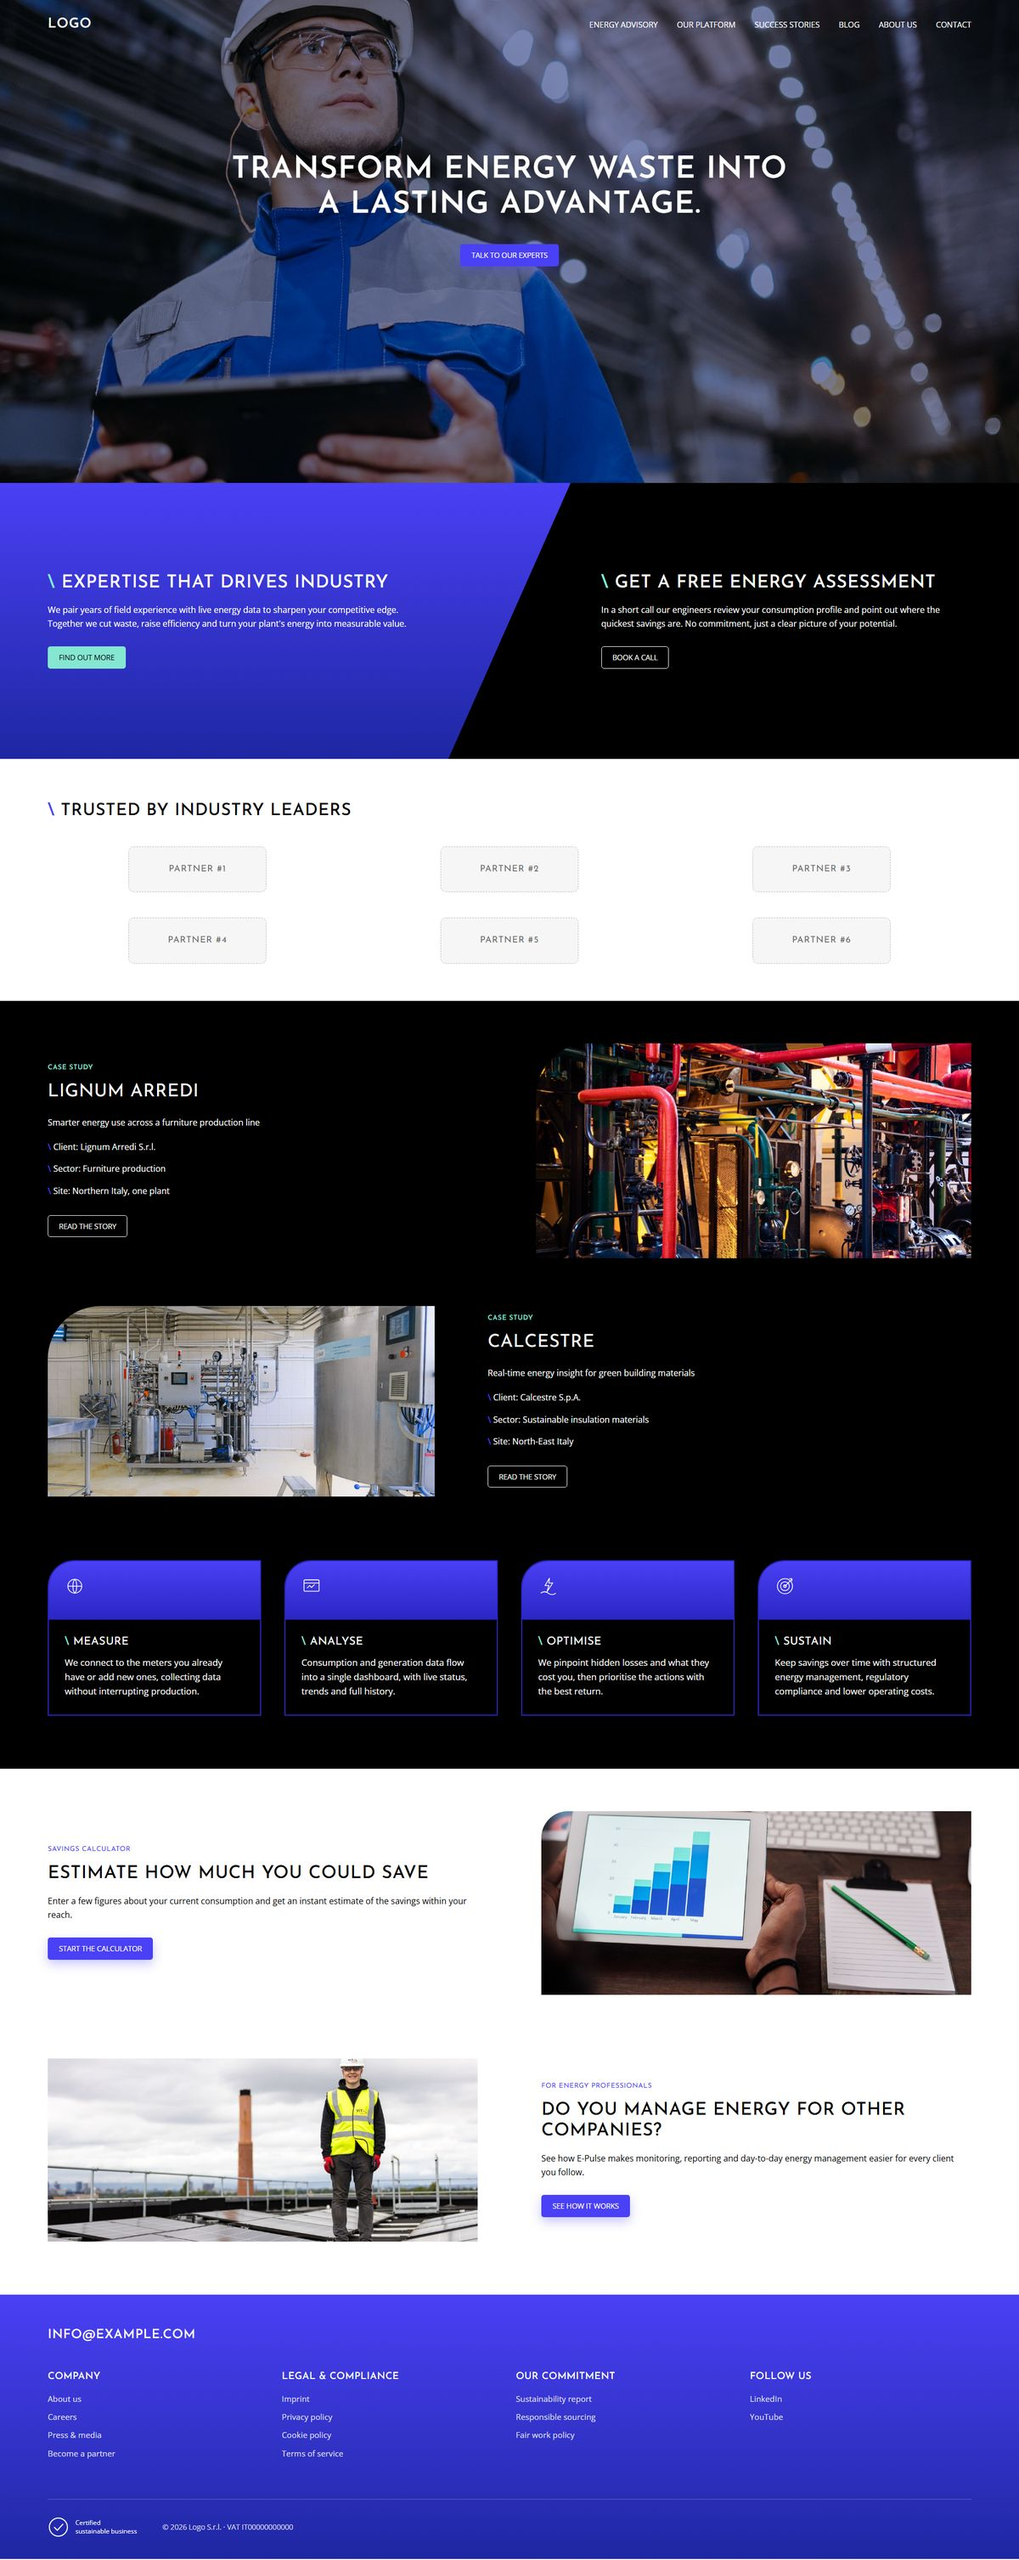
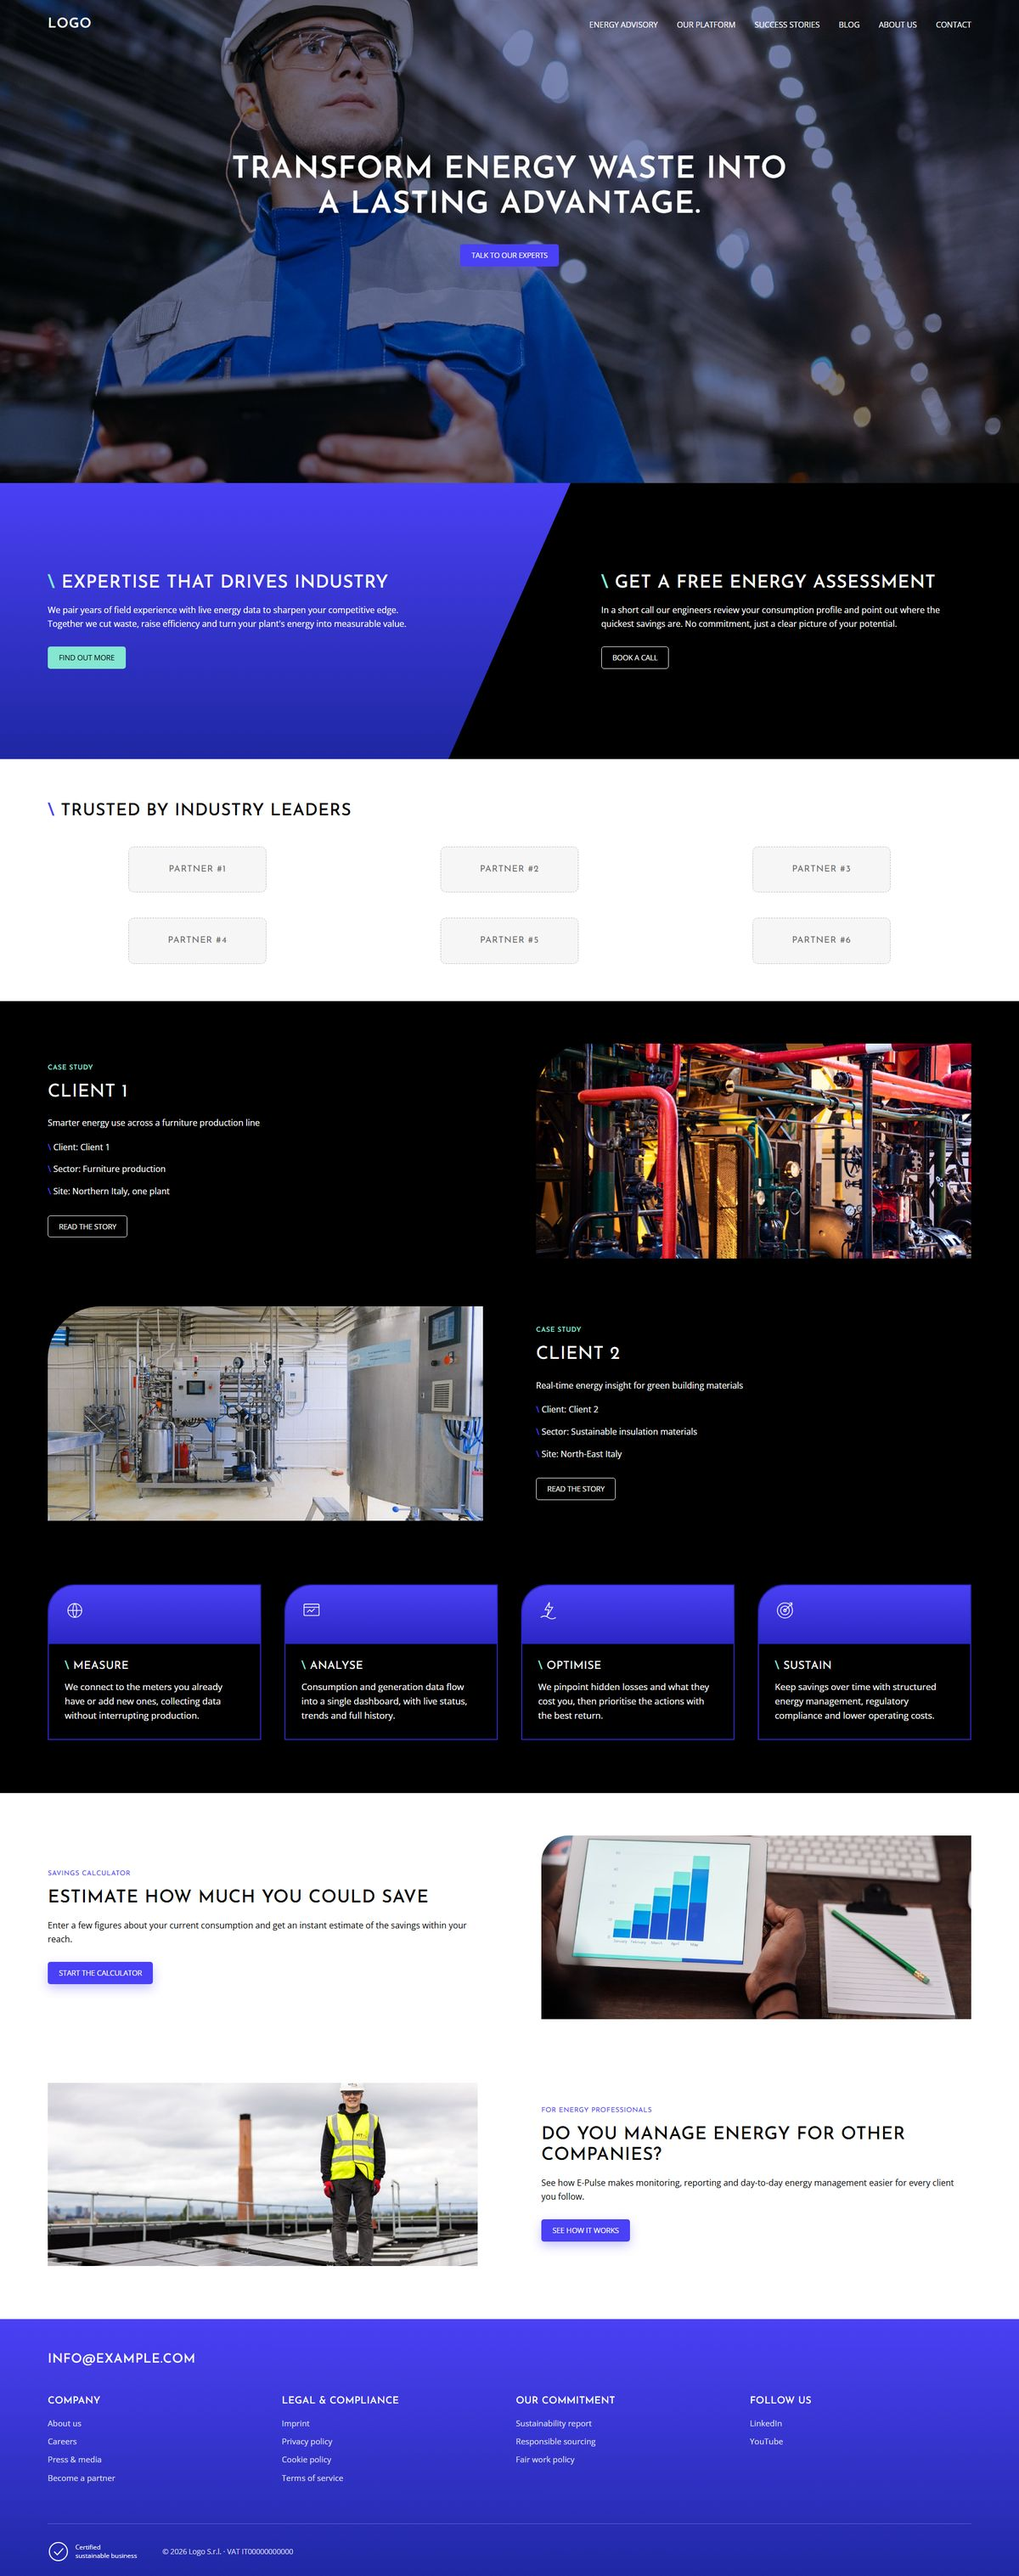
Energy demo: generic client names, equal case study image heights

diff --git a/energia/assets/css/main.css b/energia/assets/css/main.css
@@ -1,1 +1,1 @@
-*,*::before,*::after{box-sizing:border-box}html{scroll-behavior:smooth}body{margin:0;background:#fff;color:#000;font:400 16px/1.6 "Open Sans",system-ui,sans-serif;-webkit-font-smoothing:antialiased}img{display:block;max-width:100%;height:auto}a{color:inherit}h1,h2,h3{margin:0;font-family:"Josefin Sans",sans-serif;font-weight:500;text-transform:uppercase;letter-spacing:.02em;line-height:1.15}.btn{display:inline-block;padding:13px 20px;border:1px solid rgba(0,0,0,0);border-radius:5px;font:400 .85rem/1 "Open Sans",system-ui,sans-serif;text-transform:uppercase;text-decoration:none;transition:filter .2s,background .2s,color .2s}.btn:hover{filter:brightness(1.1)}.btn--violet{background:#4a40f5;color:#fff;box-shadow:0 8px 20px rgba(74,64,245,.3)}.btn--teal{background:#85e6d1;color:#000}.btn--outline{border-color:#fff;color:#fff}.btn--outline:hover{background:#fff;color:#000}.btn--ghost{border-color:#fff;background:rgba(0,0,0,0);color:#fff;transition:background .25s,color .25s,border-color .25s}.btn--ghost:hover{border-color:#85e6d1;background:#85e6d1;color:#000}.slash::before{content:"\\ ";color:#85e6d1;font-weight:600}.slash--violet::before{color:#4a40f5}.kicker{display:block;margin-bottom:20px;font:600 .8rem/1 "Josefin Sans",sans-serif;letter-spacing:.04em;text-transform:uppercase;color:#85e6d1}.kicker--violet{color:#4a40f5;font-weight:400}.header{position:absolute;inset:0 0 auto;z-index:10;color:#fff}.header__inner{display:flex;align-items:center;justify-content:space-between;padding:28px clamp(20px,4.7vw,90px)}.header__toggle{display:flex;flex-direction:column;gap:5px;padding:10px;border:0;background:none;cursor:pointer}.header__toggle span{width:24px;height:2px;background:#fff}@media(min-width: 1100px){.header__toggle{display:none}}.header__nav{display:none;position:absolute;top:90px;left:0;right:0;flex-direction:column;padding:12px clamp(20px,4.7vw,90px) 20px;background:rgba(0,0,0,.92)}.header__nav.is-open{display:flex}@media(min-width: 1100px){.header__nav{display:flex;position:static;flex-direction:row;gap:36px;padding:0;background:none}}.header__nav a{padding:8px 0;font:400 .92rem "Open Sans",system-ui,sans-serif;text-transform:uppercase;text-decoration:none}.header__nav a:hover{color:#85e6d1}.logo{font:600 1.6rem/1 "Josefin Sans",sans-serif;letter-spacing:.04em;text-transform:uppercase;text-decoration:none}.hero{display:flex;flex-direction:column;align-items:center;justify-content:center;gap:40px;min-height:600px;padding:140px 20px 80px;text-align:center;color:#fff;background:linear-gradient(rgba(10, 30, 110, 0.55), rgba(10, 30, 110, 0.55)),url("../img/hero.jpg") center 30%/cover;background-blend-mode:multiply}@media(min-width: 1100px){.hero{min-height:910px;padding-bottom:260px}}.hero h1{font-size:clamp(2rem,4.2vw,3.6rem);font-weight:600;text-shadow:0 2px 20px rgba(0,0,0,.3)}.insight{display:grid;background:#000}@media(min-width: 1100px){.insight{grid-template-columns:1fr 1fr;min-height:520px}}.insight__panel{display:flex;flex-direction:column;justify-content:center;align-items:flex-start;padding:64px clamp(20px,4.7vw,90px);background:linear-gradient(180deg, #4a40f5, #1e27a2);color:#fff}@media(min-width: 1100px){.insight__panel{grid-column:1/3;grid-row:1;width:56%;padding-right:calc(12% + 3vw);clip-path:polygon(0 0, 100% 0, 78.57% 100%, 0 100%)}}.insight__panel h2{margin-bottom:18px;font-size:clamp(1.5rem,2.2vw,2.1rem)}.insight__panel p{margin:0 0 30px;font-size:1rem}.insight__cta{display:flex;flex-direction:column;justify-content:center;align-items:flex-start;gap:28px;padding:56px clamp(20px,4.7vw,90px)}@media(min-width: 1100px){.insight__cta{grid-column:1/3;grid-row:1;padding:0 clamp(20px,4.7vw,90px) 0 calc(56% + 3vw)}}.insight__cta{color:#fff}.insight__cta h2{font-size:clamp(1.5rem,2.2vw,2.1rem)}.insight__cta p{margin:-10px 0 2px;font-size:1rem}.clients{padding:80px clamp(20px,4.7vw,90px) 70px}.clients h2{margin-bottom:48px;font-size:clamp(1.4rem,2vw,2rem)}.clients__grid{display:grid;grid-template-columns:repeat(2, 1fr);gap:48px 24px;margin:0;padding:0;list-style:none}@media(min-width: 768px){.clients__grid{grid-template-columns:repeat(3, 1fr)}}.partner{display:grid;place-items:center;width:100%;max-width:260px;aspect-ratio:3/1;margin:0 auto;border:1.5px dashed #bdbdbd;border-radius:10px;background:#f6f6f6;font:400 1.05rem/1 "Josefin Sans",sans-serif;letter-spacing:.06em;text-transform:uppercase;color:#6b6b6b}.cases{display:grid;gap:90px;padding:80px clamp(20px,4.7vw,90px) 40px;background:#000;color:#fff}.case{display:grid;gap:32px;align-items:center}@media(min-width: 1100px){.case{grid-template-columns:1fr 1fr;gap:100px}}.case h3{margin-bottom:26px;font-size:2.1rem;font-weight:400}.case p{margin:0 0 20px}.case ul{margin:0 0 32px;padding:0;list-style:none}.case li{margin-bottom:16px}.case li::before{content:"\\ ";color:#4a40f5;font-weight:700}.case__img{width:100%;aspect-ratio:770/380;object-fit:cover;border-top-left-radius:100px}@media(min-width: 1100px){.case--reverse{grid-template-columns:.8fr 1fr}.case--reverse .case__text{order:2}}.case--reverse .kicker{margin-bottom:20px}@media(min-width: 1100px){.case--reverse .case__img{aspect-ratio:770/380}}.process{padding:80px clamp(20px,4.7vw,90px) 100px;background:#000;color:#fff}.process>h2{margin-bottom:18px;font-size:clamp(1.4rem,2vw,2rem)}.process>p{margin:0 0 30px}.process__grid{display:grid;gap:44px;margin-top:0}@media(min-width: 768px){.process__grid{grid-template-columns:repeat(2, 1fr)}}@media(min-width: 1100px){.process__grid{grid-template-columns:repeat(4, 1fr)}}.step{border:2px solid #2a26c4;border-top-left-radius:50px;overflow:hidden}.step__head{height:110px;padding:28px 30px;background:linear-gradient(180deg, #4a40f5, #2a26c4)}.step__head svg{width:38px;height:38px;fill:none;stroke:#fff;stroke-width:1.3}.step h3{margin:30px 30px 14px;font-size:1.3rem;font-weight:400}.step p{margin:0 30px 30px;font-size:1.05rem}.feature{display:grid;gap:36px;align-items:center;padding:80px clamp(20px,4.7vw,90px) 40px}@media(min-width: 1100px){.feature{grid-template-columns:1fr 1fr;gap:120px}}.feature h2{margin-bottom:20px;font-size:clamp(1.5rem,2.2vw,2.1rem)}.feature p{max-width:800px;margin:0 0 30px;font-size:1rem}.feature__img{width:100%;aspect-ratio:820/350;object-fit:cover;border-top-left-radius:50px}.feature--reverse{padding-bottom:100px}@media(min-width: 1100px){.feature--reverse .feature__text{order:2}}.feature--reverse .feature__img{border-radius:0}span.btn{pointer-events:none;cursor:default}span.btn--ghost{pointer-events:auto}.footer{padding:64px clamp(20px,4.7vw,90px) 40px;background:linear-gradient(180deg, #4a40f5, #1e27a2);color:#fff}.footer__top{display:flex;flex-wrap:wrap;align-items:center;justify-content:space-between;gap:20px;margin-bottom:56px}.footer__mail{font:500 clamp(1.1rem, 1.6vw, 1.5rem)/1 "Josefin Sans",sans-serif;text-transform:uppercase;letter-spacing:.03em}.footer__cols{display:grid;gap:40px 24px}@media(min-width: 768px){.footer__cols{grid-template-columns:repeat(2, 1fr)}}@media(min-width: 1100px){.footer__cols{grid-template-columns:repeat(4, 1fr)}}.footer__cols h2{margin-bottom:18px;font-size:1.15rem;font-weight:500}.footer__cols ul{margin:0;padding:0;list-style:none}.footer__cols li{margin-bottom:10px;font-size:.95rem;color:rgba(255,255,255,.85)}.footer__bottom{display:grid;gap:32px;align-items:center;margin-top:64px;padding-top:32px;border-top:1px solid rgba(255,255,255,.25)}@media(min-width: 1100px){.footer__bottom{grid-template-columns:auto 1fr;gap:48px}}.footer__bottom>p{margin:0;font-size:.85rem;color:rgba(255,255,255,.8)}.footer__badge{display:flex;align-items:center;gap:12px;font-size:.75rem;line-height:1.3}.footer__badge svg{width:40px;height:40px;fill:none;stroke:#fff;stroke-width:2}
+*,*::before,*::after{box-sizing:border-box}html{scroll-behavior:smooth}body{margin:0;background:#fff;color:#000;font:400 16px/1.6 "Open Sans",system-ui,sans-serif;-webkit-font-smoothing:antialiased}img{display:block;max-width:100%;height:auto}a{color:inherit}h1,h2,h3{margin:0;font-family:"Josefin Sans",sans-serif;font-weight:500;text-transform:uppercase;letter-spacing:.02em;line-height:1.15}.btn{display:inline-block;padding:13px 20px;border:1px solid rgba(0,0,0,0);border-radius:5px;font:400 .85rem/1 "Open Sans",system-ui,sans-serif;text-transform:uppercase;text-decoration:none;transition:filter .2s,background .2s,color .2s}.btn:hover{filter:brightness(1.1)}.btn--violet{background:#4a40f5;color:#fff;box-shadow:0 8px 20px rgba(74,64,245,.3)}.btn--teal{background:#85e6d1;color:#000}.btn--outline{border-color:#fff;color:#fff}.btn--outline:hover{background:#fff;color:#000}.btn--ghost{border-color:#fff;background:rgba(0,0,0,0);color:#fff;transition:background .25s,color .25s,border-color .25s}.btn--ghost:hover{border-color:#85e6d1;background:#85e6d1;color:#000}.slash::before{content:"\\ ";color:#85e6d1;font-weight:600}.slash--violet::before{color:#4a40f5}.kicker{display:block;margin-bottom:20px;font:600 .8rem/1 "Josefin Sans",sans-serif;letter-spacing:.04em;text-transform:uppercase;color:#85e6d1}.kicker--violet{color:#4a40f5;font-weight:400}.header{position:absolute;inset:0 0 auto;z-index:10;color:#fff}.header__inner{display:flex;align-items:center;justify-content:space-between;padding:28px clamp(20px,4.7vw,90px)}.header__toggle{display:flex;flex-direction:column;gap:5px;padding:10px;border:0;background:none;cursor:pointer}.header__toggle span{width:24px;height:2px;background:#fff}@media(min-width: 1100px){.header__toggle{display:none}}.header__nav{display:none;position:absolute;top:90px;left:0;right:0;flex-direction:column;padding:12px clamp(20px,4.7vw,90px) 20px;background:rgba(0,0,0,.92)}.header__nav.is-open{display:flex}@media(min-width: 1100px){.header__nav{display:flex;position:static;flex-direction:row;gap:36px;padding:0;background:none}}.header__nav a{padding:8px 0;font:400 .92rem "Open Sans",system-ui,sans-serif;text-transform:uppercase;text-decoration:none}.header__nav a:hover{color:#85e6d1}.logo{font:600 1.6rem/1 "Josefin Sans",sans-serif;letter-spacing:.04em;text-transform:uppercase;text-decoration:none}.hero{display:flex;flex-direction:column;align-items:center;justify-content:center;gap:40px;min-height:600px;padding:140px 20px 80px;text-align:center;color:#fff;background:linear-gradient(rgba(10, 30, 110, 0.55), rgba(10, 30, 110, 0.55)),url("../img/hero.jpg") center 30%/cover;background-blend-mode:multiply}@media(min-width: 1100px){.hero{min-height:910px;padding-bottom:260px}}.hero h1{font-size:clamp(2rem,4.2vw,3.6rem);font-weight:600;text-shadow:0 2px 20px rgba(0,0,0,.3)}.insight{display:grid;background:#000}@media(min-width: 1100px){.insight{grid-template-columns:1fr 1fr;min-height:520px}}.insight__panel{display:flex;flex-direction:column;justify-content:center;align-items:flex-start;padding:64px clamp(20px,4.7vw,90px);background:linear-gradient(180deg, #4a40f5, #1e27a2);color:#fff}@media(min-width: 1100px){.insight__panel{grid-column:1/3;grid-row:1;width:56%;padding-right:calc(12% + 3vw);clip-path:polygon(0 0, 100% 0, 78.57% 100%, 0 100%)}}.insight__panel h2{margin-bottom:18px;font-size:clamp(1.5rem,2.2vw,2.1rem)}.insight__panel p{margin:0 0 30px;font-size:1rem}.insight__cta{display:flex;flex-direction:column;justify-content:center;align-items:flex-start;gap:28px;padding:56px clamp(20px,4.7vw,90px)}@media(min-width: 1100px){.insight__cta{grid-column:1/3;grid-row:1;padding:0 clamp(20px,4.7vw,90px) 0 calc(56% + 3vw)}}.insight__cta{color:#fff}.insight__cta h2{font-size:clamp(1.5rem,2.2vw,2.1rem)}.insight__cta p{margin:-10px 0 2px;font-size:1rem}.clients{padding:80px clamp(20px,4.7vw,90px) 70px}.clients h2{margin-bottom:48px;font-size:clamp(1.4rem,2vw,2rem)}.clients__grid{display:grid;grid-template-columns:repeat(2, 1fr);gap:48px 24px;margin:0;padding:0;list-style:none}@media(min-width: 768px){.clients__grid{grid-template-columns:repeat(3, 1fr)}}.partner{display:grid;place-items:center;width:100%;max-width:260px;aspect-ratio:3/1;margin:0 auto;border:1.5px dashed #bdbdbd;border-radius:10px;background:#f6f6f6;font:400 1.05rem/1 "Josefin Sans",sans-serif;letter-spacing:.06em;text-transform:uppercase;color:#6b6b6b}.cases{display:grid;gap:90px;padding:80px clamp(20px,4.7vw,90px) 40px;background:#000;color:#fff}.case{display:grid;gap:32px;align-items:center}@media(min-width: 1100px){.case{grid-template-columns:1fr 1fr;gap:100px}}.case h3{margin-bottom:26px;font-size:2.1rem;font-weight:400}.case p{margin:0 0 20px}.case ul{margin:0 0 32px;padding:0;list-style:none}.case li{margin-bottom:16px}.case li::before{content:"\\ ";color:#4a40f5;font-weight:700}.case__img{width:100%;aspect-ratio:770/380;object-fit:cover;border-top-left-radius:100px}@media(min-width: 1100px){.case--reverse .case__text{order:2}}.case--reverse .kicker{margin-bottom:20px}.process{padding:80px clamp(20px,4.7vw,90px) 100px;background:#000;color:#fff}.process>h2{margin-bottom:18px;font-size:clamp(1.4rem,2vw,2rem)}.process>p{margin:0 0 30px}.process__grid{display:grid;gap:44px;margin-top:0}@media(min-width: 768px){.process__grid{grid-template-columns:repeat(2, 1fr)}}@media(min-width: 1100px){.process__grid{grid-template-columns:repeat(4, 1fr)}}.step{border:2px solid #2a26c4;border-top-left-radius:50px;overflow:hidden}.step__head{height:110px;padding:28px 30px;background:linear-gradient(180deg, #4a40f5, #2a26c4)}.step__head svg{width:38px;height:38px;fill:none;stroke:#fff;stroke-width:1.3}.step h3{margin:30px 30px 14px;font-size:1.3rem;font-weight:400}.step p{margin:0 30px 30px;font-size:1.05rem}.feature{display:grid;gap:36px;align-items:center;padding:80px clamp(20px,4.7vw,90px) 40px}@media(min-width: 1100px){.feature{grid-template-columns:1fr 1fr;gap:120px}}.feature h2{margin-bottom:20px;font-size:clamp(1.5rem,2.2vw,2.1rem)}.feature p{max-width:800px;margin:0 0 30px;font-size:1rem}.feature__img{width:100%;aspect-ratio:820/350;object-fit:cover;border-top-left-radius:50px}.feature--reverse{padding-bottom:100px}@media(min-width: 1100px){.feature--reverse .feature__text{order:2}}.feature--reverse .feature__img{border-radius:0}span.btn{pointer-events:none;cursor:default}span.btn--ghost{pointer-events:auto}.footer{padding:64px clamp(20px,4.7vw,90px) 40px;background:linear-gradient(180deg, #4a40f5, #1e27a2);color:#fff}.footer__top{display:flex;flex-wrap:wrap;align-items:center;justify-content:space-between;gap:20px;margin-bottom:56px}.footer__mail{font:500 clamp(1.1rem, 1.6vw, 1.5rem)/1 "Josefin Sans",sans-serif;text-transform:uppercase;letter-spacing:.03em}.footer__cols{display:grid;gap:40px 24px}@media(min-width: 768px){.footer__cols{grid-template-columns:repeat(2, 1fr)}}@media(min-width: 1100px){.footer__cols{grid-template-columns:repeat(4, 1fr)}}.footer__cols h2{margin-bottom:18px;font-size:1.15rem;font-weight:500}.footer__cols ul{margin:0;padding:0;list-style:none}.footer__cols li{margin-bottom:10px;font-size:.95rem;color:rgba(255,255,255,.85)}.footer__bottom{display:grid;gap:32px;align-items:center;margin-top:64px;padding-top:32px;border-top:1px solid rgba(255,255,255,.25)}@media(min-width: 1100px){.footer__bottom{grid-template-columns:auto 1fr;gap:48px}}.footer__bottom>p{margin:0;font-size:.85rem;color:rgba(255,255,255,.8)}.footer__badge{display:flex;align-items:center;gap:12px;font-size:.75rem;line-height:1.3}.footer__badge svg{width:40px;height:40px;fill:none;stroke:#fff;stroke-width:2}

diff --git a/energia/index.html b/energia/index.html
@@ -62,10 +62,10 @@
       <article class="case">
         <div class="case__text">
           <span class="kicker">Case study</span>
-          <h3>Lignum Arredi</h3>
+          <h3>Client 1</h3>
           <p>Smarter energy use across a furniture production line</p>
           <ul>
-            <li>Client: Lignum Arredi S.r.l.</li>
+            <li>Client: Client 1</li>
             <li>Sector: Furniture production</li>
             <li>Site: Northern Italy, one plant</li>
           </ul>
@@ -76,10 +76,10 @@
       <article class="case case--reverse">
         <div class="case__text">
           <span class="kicker">Case study</span>
-          <h3>Calcestre</h3>
+          <h3>Client 2</h3>
           <p>Real-time energy insight for green building materials</p>
           <ul>
-            <li>Client: Calcestre S.p.A.</li>
+            <li>Client: Client 2</li>
             <li>Sector: Sustainable insulation materials</li>
             <li>Site: North-East Italy</li>
           </ul>

diff --git a/index.html b/index.html
@@ -72,7 +72,7 @@
 
       <li class="project">
         <button class="project__preview" type="button" data-full="assets/img/energia.jpg" data-site="energia/" aria-label="Apri il sito: Efficienza energetica">
-          <img src="assets/img/energia.jpg" alt="Anteprima homepage di una società di efficienza energetica" loading="lazy" width="1200" height="3015">
+          <img src="assets/img/energia.jpg" alt="Anteprima homepage di una società di efficienza energetica" loading="lazy" width="1200" height="3033">
         </button>
         <div class="project__info">
           <span class="project__index">04</span>

diff --git a/energia/assets/scss/main.scss b/energia/assets/scss/main.scss
@@ -229,7 +229,6 @@ h1, h2, h3 { margin: 0; font-family: $head; font-weight: 500; text-transform: up
 
   &--reverse {
     @include lg {
-      grid-template-columns: .8fr 1fr;
       .case__text { order: 2; }
     }
 
@@ -237,7 +236,6 @@ h1, h2, h3 { margin: 0; font-family: $head; font-weight: 500; text-transform: up
   }
 }
 
-.case--reverse .case__img { @include lg { aspect-ratio: 770 / 380; } }
 
 // ---------- process ----------
 .process {
